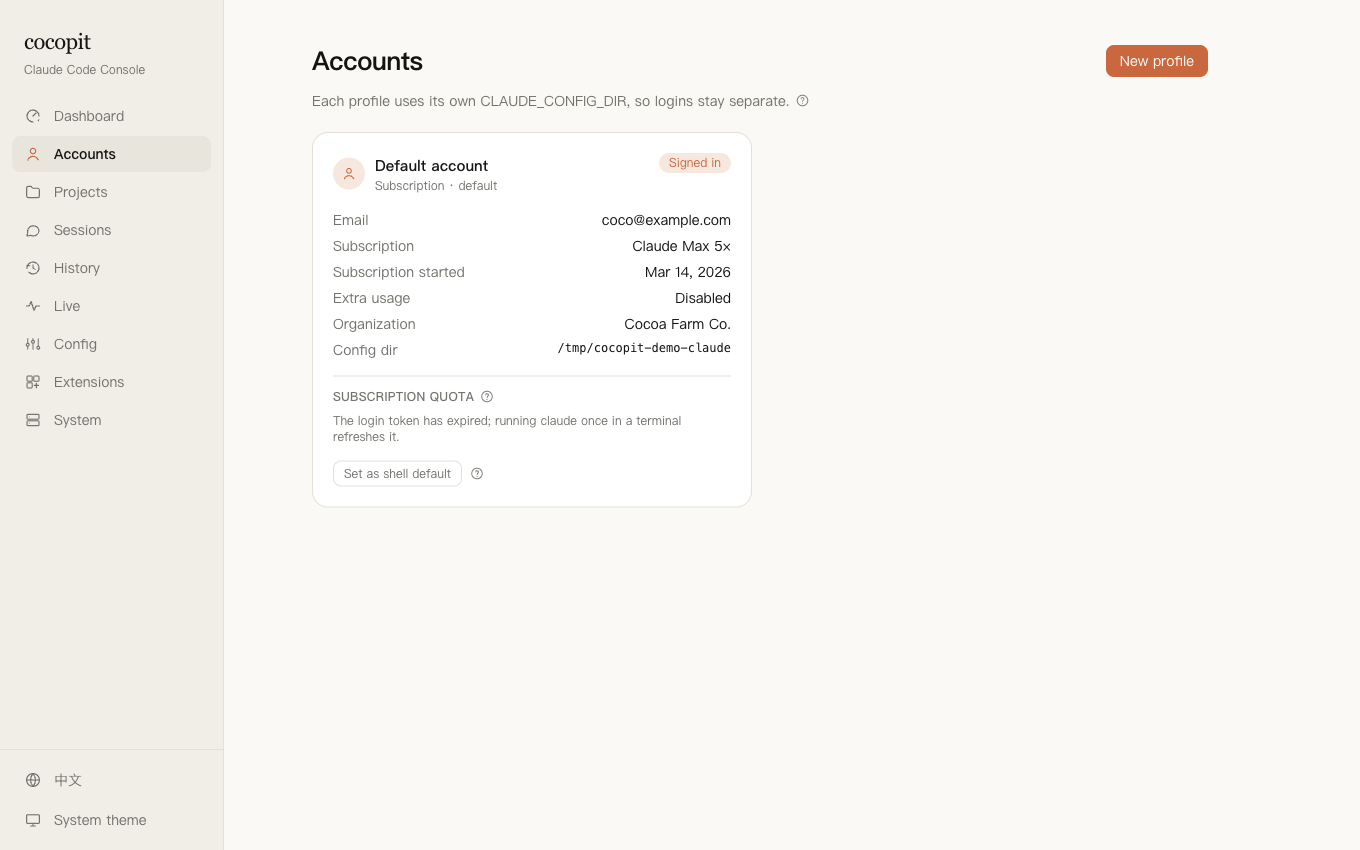
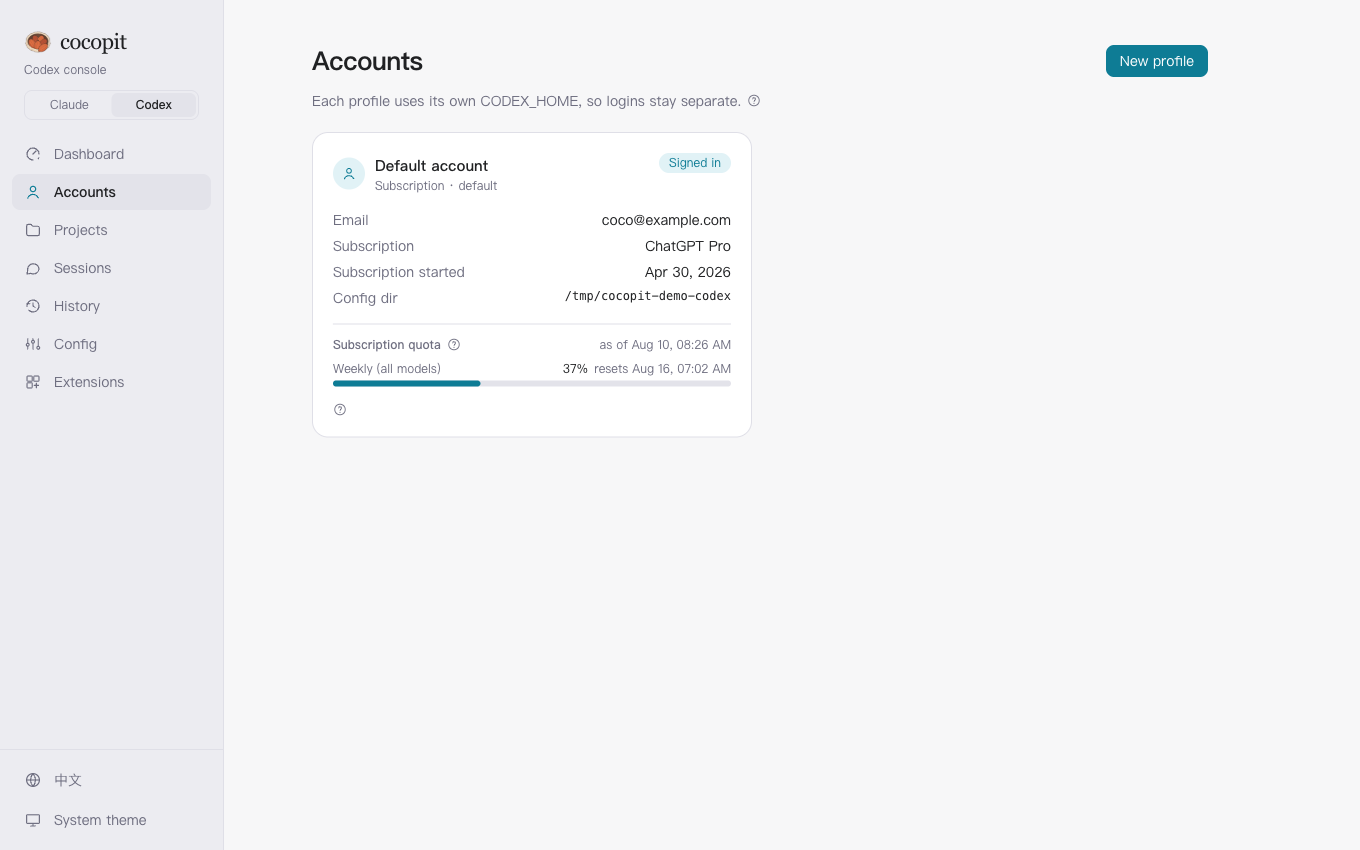
docs: screenshots match the product again — Codex view included
Regenerated from demo data (now fabricating Codex rollouts, quota
snapshots, and an unsigned fake JWT for the account card — the console
decodes claims locally and never verifies). The grid gains the Codex
dashboard; package/repo descriptions and llms.txt now name both CLIs.

diff --git a/scripts/demo.ts b/scripts/demo.ts
@@ -10,6 +10,7 @@ import { mkdirSync, rmSync, writeFileSync } from "node:fs";
 import { join } from "node:path";
 
 const DEMO_CLAUDE = "/tmp/cocopit-demo-claude";
+const DEMO_CODEX = "/tmp/cocopit-demo-codex";
 const DEMO_HOME = "/tmp/cocopit-demo-home";
 
 // deterministic pseudo-random: same demo every run
@@ -96,6 +97,7 @@ function dirNameOf(cwd: string): string {
 }
 
 rmSync(DEMO_CLAUDE, { recursive: true, force: true });
+rmSync(DEMO_CODEX, { recursive: true, force: true });
 rmSync(DEMO_HOME, { recursive: true, force: true });
 mkdirSync(DEMO_HOME, { recursive: true, mode: 0o700 });
 
@@ -200,6 +202,110 @@ writeFileSync(
   { mode: 0o600 },
 );
 
+// ---------------------------------------------------------------------------
+// Codex: rollout files under sessions/YYYY/MM/DD, quota embedded in
+// token_count events, login state in auth.json (a fake unsigned JWT — the
+// console decodes claims locally and never verifies signatures).
+// ---------------------------------------------------------------------------
+
+const CODEX_MODELS = ["gpt-5.3-codex", "gpt-5.2-codex"];
+const codexHistory: string[] = [];
+
+for (const project of PROJECTS.slice(0, 3)) {
+  for (let s = 0; s < between(5, 9); s++) {
+    const sessionId = `0199${(++uuidCounter).toString(16).padStart(4, "0")}-cafe-7000-8000-${(uuidCounter * 7)
+      .toString(16)
+      .padStart(12, "0")}`;
+    const daysAgo = between(0, 40);
+    const startMs = NOW - daysAgo * DAY - (NOW % DAY) + pick([9, 10, 14, 15, 16, 21]) * 3_600_000;
+    const day = new Date(startMs);
+    const dayDir = join(
+      DEMO_CODEX,
+      "sessions",
+      String(day.getUTCFullYear()),
+      String(day.getUTCMonth() + 1).padStart(2, "0"),
+      String(day.getUTCDate()).padStart(2, "0"),
+    );
+    mkdirSync(dayDir, { recursive: true });
+
+    let ts = startMs;
+    const iso = () => new Date(ts).toISOString();
+    const model = pick(CODEX_MODELS);
+    const lines: string[] = [
+      JSON.stringify({
+        timestamp: iso(),
+        type: "session_meta",
+        payload: { id: sessionId, timestamp: iso(), cwd: project.cwd, cli_version: "0.140.0", source: "cli" },
+      }),
+      JSON.stringify({ timestamp: iso(), type: "turn_context", payload: { cwd: project.cwd, model } }),
+    ];
+    for (let turn = 0; turn < between(2, 6); turn++) {
+      const prompt = pick(project.prompts);
+      lines.push(
+        JSON.stringify({
+          timestamp: iso(),
+          type: "response_item",
+          payload: { type: "message", role: "user", content: [{ type: "input_text", text: prompt }] },
+        }),
+      );
+      codexHistory.push(JSON.stringify({ session_id: sessionId, ts: Math.floor(ts / 1000), text: prompt }));
+      ts += between(30_000, 200_000);
+      lines.push(
+        JSON.stringify({
+          timestamp: iso(),
+          type: "response_item",
+          payload: { type: "message", role: "assistant", content: [{ type: "output_text", text: pick(REPLIES) }] },
+        }),
+        JSON.stringify({
+          timestamp: iso(),
+          type: "event_msg",
+          payload: {
+            type: "token_count",
+            info: {
+              last_token_usage: {
+                input_tokens: between(8_000, 90_000),
+                cached_input_tokens: between(4_000, 60_000),
+                output_tokens: between(300, 3_000),
+              },
+            },
+            rate_limits: {
+              primary: {
+                used_percent: 37,
+                window_minutes: 10080,
+                resets_at: Math.floor((NOW + 4 * DAY) / 1000),
+              },
+              secondary: null,
+            },
+          },
+        }),
+      );
+      ts += between(60_000, 500_000);
+    }
+    writeFileSync(join(dayDir, `rollout-2026-demo-${sessionId}.jsonl`), lines.join("\n") + "\n");
+  }
+}
+writeFileSync(join(DEMO_CODEX, "history.jsonl"), codexHistory.join("\n") + "\n");
+
+// a fake unsigned JWT: header.payload.signature, claims decoded locally only
+const b64 = (obj: unknown) => Buffer.from(JSON.stringify(obj)).toString("base64url");
+writeFileSync(
+  join(DEMO_CODEX, "auth.json"),
+  JSON.stringify({
+    auth_mode: "chatgpt",
+    tokens: {
+      id_token: `${b64({ alg: "none" })}.${b64({
+        email: "coco@example.com",
+        name: "Coco",
+        "https://api.openai.com/auth": {
+          chatgpt_plan_type: "pro",
+          chatgpt_subscription_active_start: "2026-05-01T00:00:00Z",
+        },
+      })}.demo`,
+    },
+  }),
+  { mode: 0o600 },
+);
+
 // the default profile points at the demo dir, so nothing resolves to ~/.claude
 writeFileSync(
   join(DEMO_HOME, "profiles.json"),
@@ -212,7 +318,11 @@ writeFileSync(
 );
 writeFileSync(
   join(DEMO_HOME, "config.json"),
-  JSON.stringify({ port: 7897, host: "127.0.0.1", claudeDir: DEMO_CLAUDE, allowedOrigins: [] }, null, 2) + "\n",
+  JSON.stringify(
+    { port: 7897, host: "127.0.0.1", claudeDir: DEMO_CLAUDE, codexDir: DEMO_CODEX, allowedOrigins: [] },
+    null,
+    2,
+  ) + "\n",
 );
 
 console.log(`demo data written:
@@ -223,4 +333,4 @@ run the demo instance:
   COCOPIT_HOME=${DEMO_HOME} bun bin/cocopit.ts
 
 clean up:
-  rm -rf ${DEMO_CLAUDE} ${DEMO_HOME}`);
+  rm -rf ${DEMO_CLAUDE} ${DEMO_CODEX} ${DEMO_HOME}`);

diff --git a/README.md b/README.md
@@ -28,12 +28,12 @@
 
 <table>
   <tr>
-    <td><img src="docs/screenshots/session-detail.png" alt="Session detail — outline, markdown rendering, in-session search" /></td>
+    <td><img src="docs/screenshots/codex-dashboard.png" alt="The Codex view — same console, its own URL space and visual identity" /></td>
     <td><img src="docs/screenshots/accounts.png" alt="Accounts — plan, quota, isolated logins" /></td>
   </tr>
   <tr>
+    <td><img src="docs/screenshots/session-detail.png" alt="Session detail — outline, markdown rendering, in-session search" /></td>
     <td><img src="docs/screenshots/terminal.png" alt="Web terminal — sessions run in tmux, survive the browser" /></td>
-    <td><img src="docs/screenshots/sessions.png" alt="Sessions — full-text search across every transcript" /></td>
   </tr>
 </table>
 

diff --git a/README.zh-CN.md b/README.zh-CN.md
@@ -22,12 +22,12 @@
 
 <table>
   <tr>
-    <td><img src="docs/screenshots/session-detail.png" alt="会话详情——大纲、markdown 渲染、会话内搜索" /></td>
+    <td><img src="docs/screenshots/codex-dashboard.png" alt="Codex 视图——同一个控制台,独立的 URL 空间与视觉" /></td>
     <td><img src="docs/screenshots/accounts.png" alt="账号——套餐、额度、隔离登录" /></td>
   </tr>
   <tr>
+    <td><img src="docs/screenshots/session-detail.png" alt="会话详情——大纲、markdown 渲染、会话内搜索" /></td>
     <td><img src="docs/screenshots/terminal.png" alt="Web 终端——会话跑在 tmux 里,关页面不中断" /></td>
-    <td><img src="docs/screenshots/sessions.png" alt="会话——全库全文检索" /></td>
   </tr>
 </table>
 
